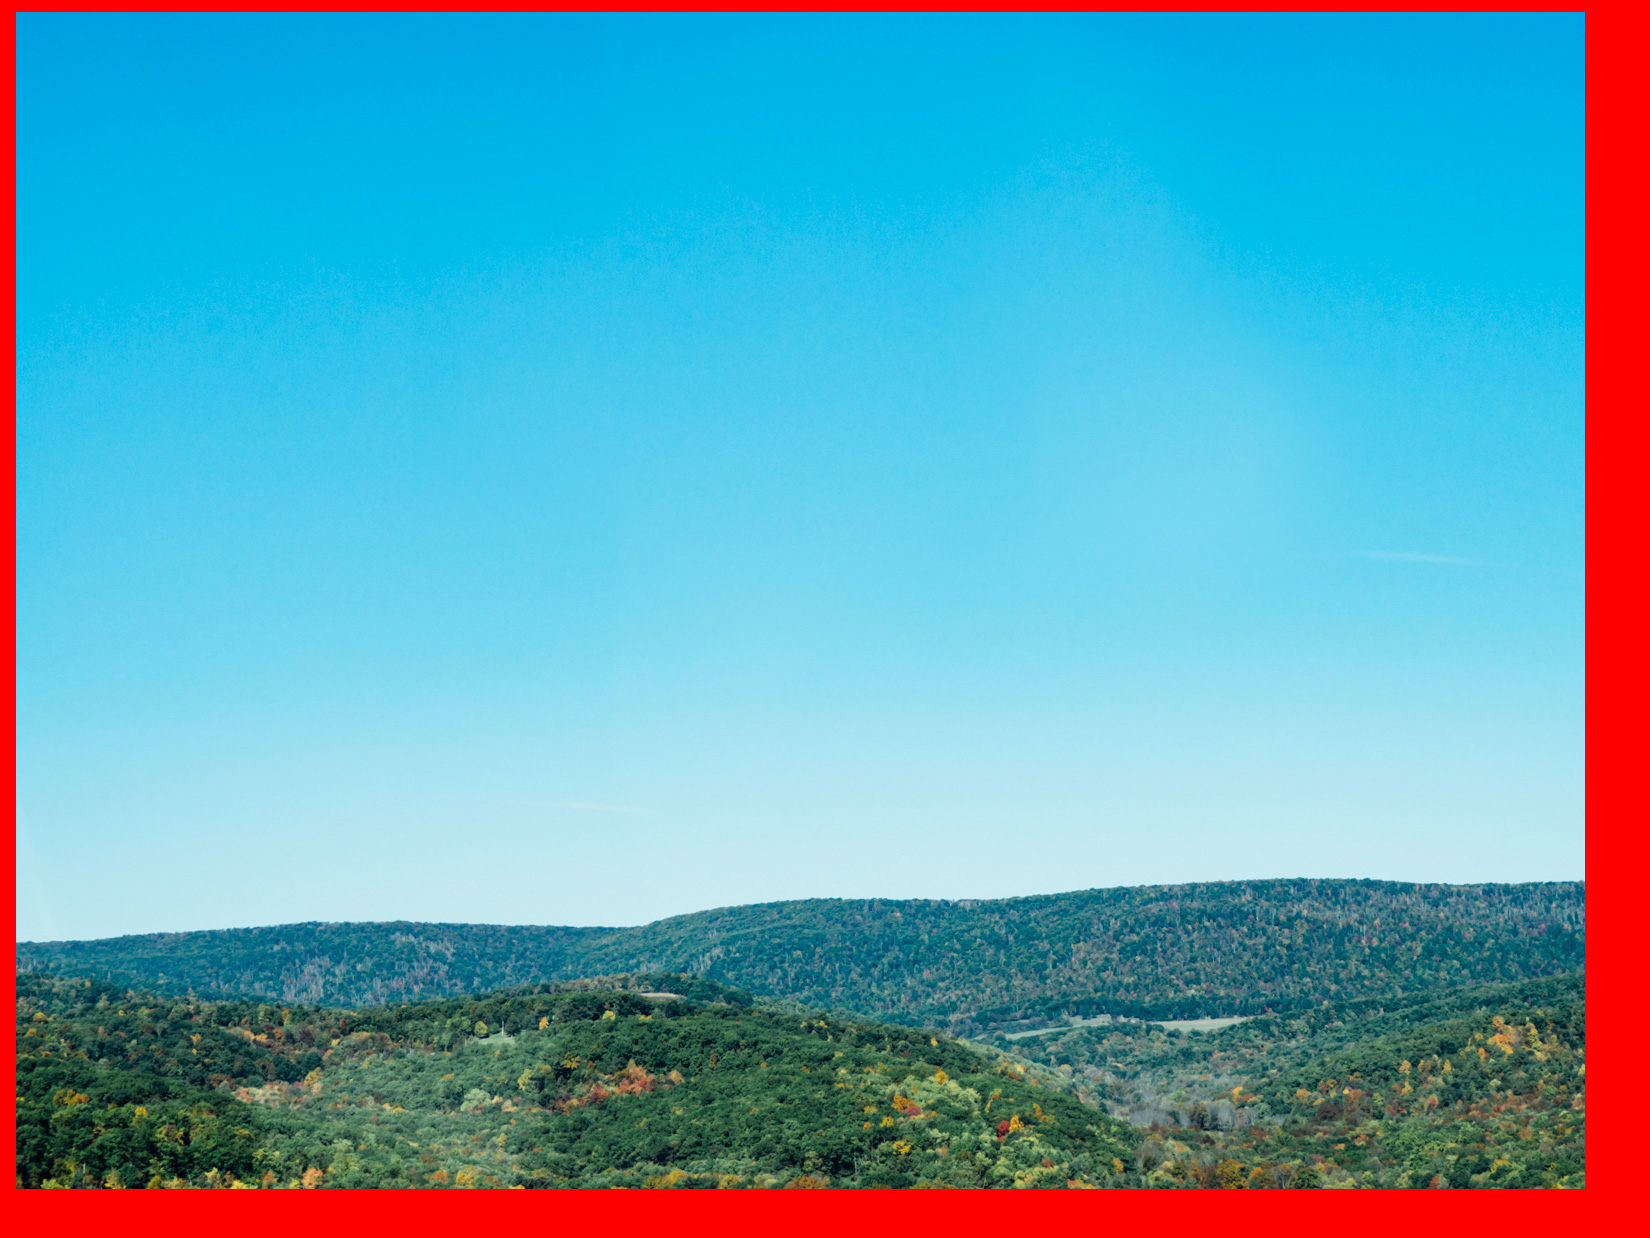
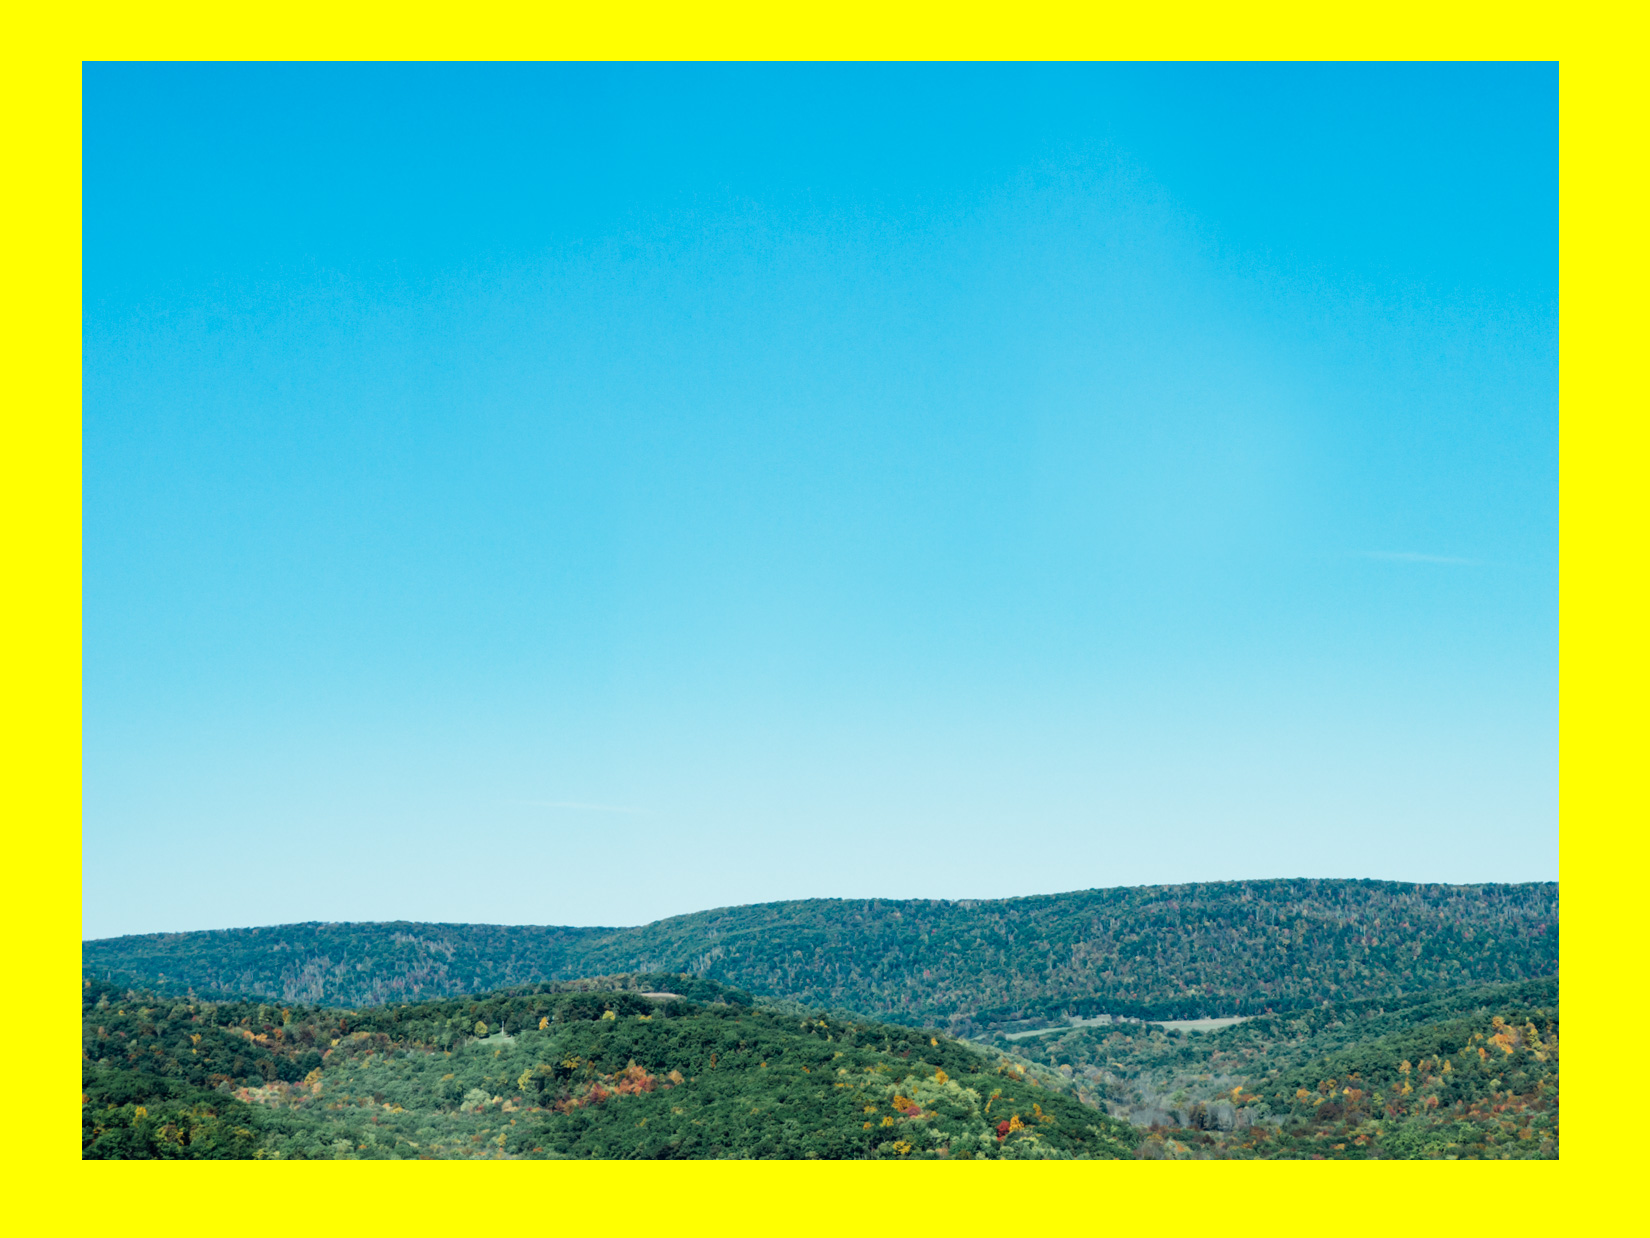
Started day two.
https://github.com/Sade66/CSP-1.4.7-Project/wiki/Journal-%7C-2.1.2017

Changed region(s): [[0.0, 0.0, 1.0, 1.0]]

diff --git a/147 3.py b/147 3.py
@@ -1,0 +1,93 @@
+import PIL
+import matplotlib.pyplot as plt
+import os.path
+import PIL.ImageDraw
+from PIL import ImageFilter
+
+def get_images(directory=None):
+    if directory == None:
+        directory = os.getcwd() # Use working directory if unspecified
+        
+    image_list = [] # Initialize aggregaotrs
+    file_list = []
+    
+    directory_list = os.listdir(directory) # Get list of files
+    for entry in directory_list:
+        absolute_filename = os.path.join(directory, entry)
+        try:
+            image = PIL.Image.open(absolute_filename)
+            file_list += [entry]
+            image_list += [image]
+        except IOError:
+            pass # do nothing with errors tying to open non-images
+    return image_list, file_list
+    
+def frame_image(image, wide, r,g,b):
+    width, height= image.size
+    frame = PIL.Image.new('RGBA', (width, height), (0,0,0,0))
+    drawing_layer = PIL.ImageDraw.Draw(frame)
+    drawing_layer.rectangle([(width/wide,height/wide), ((width/wide)*(wide-1),(height/wide)*(wide-1))],fill=(127,0,127,255))
+    result = PIL.Image.new('RGBA', image.size, (r,g,b,255))
+    result.paste(image,(0,0),mask=frame)
+    print 'Framing Image...'
+    print 'Image',image,'has been framed.'
+    return result
+    
+def frame_all_images(wider, r,g,b, directory=None):
+    directory = os.getcwd()
+    new_directory = os.path.join(directory, "Framed Images")
+    try:
+        os.mkdir(new_directory)
+    except:
+        pass
+    images, files = get_images(directory)
+    for n in range(len(images)):
+        fname,ftype = files[n].split('.')
+        new_image = frame_image(images[n], wider ,r,g,b)
+        newName = os.path.join(new_directory,fname + ".png")
+        new_image.save(newName)
+    print 'Success! All images have been framed!'
+    
+def tint_image(image, r,g,b):
+    result = PIL.Image.new('RGBA', image.size, (r,g,b,105))
+    image.paste(result,(0,0),result)
+    print 'Tinting Image...'
+    print 'Image',image,'has been tinted.'
+    return image
+    
+def tint_all_images(r,g,b, directory=None):
+    directory = os.getcwd()
+    new_directory = os.path.join(directory, "Tinted Images")
+    try:
+        os.mkdir(new_directory)
+    except:
+        pass
+    images, files = get_images(directory)
+    for n in range(len(images)):
+        fname,ftype = files[n].split('.')
+        new_image = tint_image(images[n], r,g,b)
+        newName = os.path.join(new_directory,fname + ".png")
+        new_image.save(newName)
+    print 'Success! All images have been tinted!'
+    
+def blur_image(image, radius):
+    blur = image.filter(ImageFilter.GaussianBlur(radius))
+    image.paste(blur,(0,0))
+    print 'Blurring Image...'
+    print 'Image',image,'has been blurred.'
+    return image
+    
+def blur_all_images(radius, directory=None):
+    directory = os.getcwd()
+    new_directory = os.path.join(directory, "Blurred Images")
+    try:
+        os.mkdir(new_directory)
+    except:
+        pass
+    images, files = get_images(directory)
+    for n in range(len(images)):
+        fname,ftype = files[n].split('.')
+        new_image = blur_image(images[n], radius)
+        newName = os.path.join(new_directory,fname + ".png")
+        new_image.save(newName)
+    print 'Success! All images have been blurred!'
